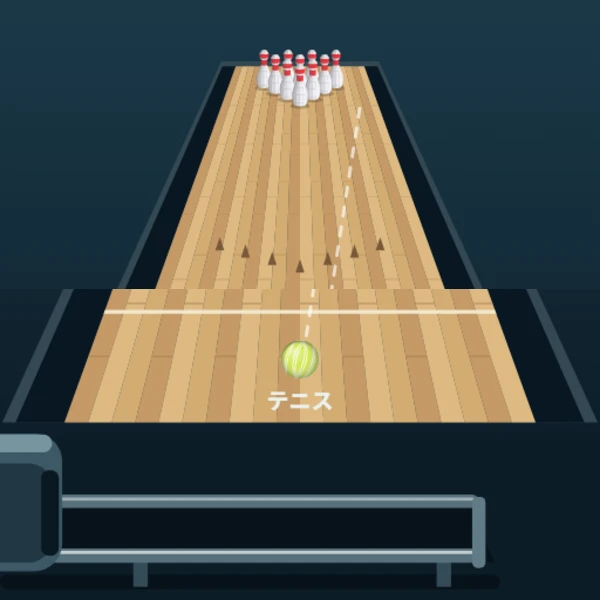
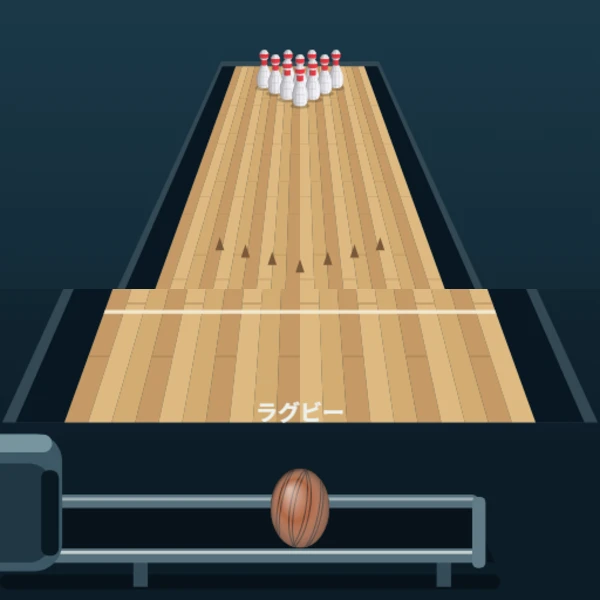
二回のドラッグで位置と角度を決めゲージ停止で投球する形に変更

diff --git a/games/_random-bowling/index.html b/games/_random-bowling/index.html
@@ -108,7 +108,7 @@
     {name:'スーパーボール', color:'#f079cf', r:.29, mass:2.3, speed:16, curve:0, hop:1.15, skin:9}
   ];
   var S = { PLAY:'play', RESULT:'result' };
-  var state, score, T, held, keyMode=false, phase, shot, pins, ball, kind, aim, manual, elapsed, history, scoreTime=0;
+  var state, score, T, held, keyMode=false, phase, shot, pins, ball, kind, aim, manual, elapsed, history, scoreTime=0, position=0, power=.5, dragX=0, dragY=0, dragAim=0, rollTime=5.2;
   function place() {}
   function clamp(v,a,b) { return Math.max(a,Math.min(b,v)); }
   function rack() {
@@ -118,14 +118,16 @@
   }
   function nextBall() {
     kind=kinds[Math.floor(Math.random()*kinds.length)];
-    phase='return'; aim=0; manual=false; elapsed=0; ball=null; rack();
+    phase='return'; position=0;power=.5;held=false;aim=0; manual=false; elapsed=0; ball=null; rack();
   }
   function newRound() {
     state=S.PLAY; scoreTime=0; score=0; T=0; held=false; shot=0; history=[]; nextBall();
   }
   function launch() {
-    if(state!==S.PLAY || phase!=='aim') return;
-    ball={x:0,z:.65,y:kind.r,vx:aim*kind.speed,vz:kind.speed,gutter:false,spin:0};
+    if(state!==S.PLAY || phase!=='power') return;
+    var speed=kind.speed*(.45+power*.95);
+    rollTime=Math.max(5.2,24/speed+1.3);
+    ball={x:position,z:.65,y:kind.r,vx:aim*speed,vz:speed,gutter:false,spin:0};
     phase='roll'; elapsed=0;
     tone(110,.16,.06,'sine',55);
   }
@@ -176,12 +178,12 @@
     scoreTime=Math.max(0,scoreTime-dt);
     if(state!==S.PLAY) return;
     elapsed+=dt;
-    if(phase==='return') {if(elapsed>=1.2) {phase='place';elapsed=0;}return;}
-    if(phase==='place') {if(elapsed>=.4) {phase='aim';elapsed=0;}return;}
-    if(phase==='aim') {if(!manual) aim=Math.sin(elapsed*.95)*.17;return;}
+    if(phase==='return') {if(elapsed>=1.2) {phase='receive';elapsed=0;}return;}
+    if(phase==='power') {power=1-Math.abs((elapsed%1.6)/.8-1);return;}
+    if(phase==='receive'||phase==='position'||phase==='angle') return;
     if(phase==='roll') {
       for(var i=0;i<4;i++) physics(dt/4);
-      if(elapsed>5.2) {history.push(pins.filter(function(p){return p.down;}).length);shot++;scoreTime=2;phase='settle';elapsed=0;}
+      if(elapsed>rollTime) {history.push(pins.filter(function(p){return p.down;}).length);shot++;scoreTime=2;phase='settle';elapsed=0;}
     } else if(elapsed>1) {if(shot===10) state=S.RESULT;else nextBall();}
   }
   function down(x,y) {
@@ -191,12 +193,33 @@
       if(hit==='share') doShare();else if(hit==='retry') newRound();
       return;
     }
-    if(phase!=='aim') return;
-    if(x!=null && y<80) return;
-    launch();
+    if(x==null) {
+      if(phase==='receive') phase='position';
+      else if(phase==='position') phase='angle';
+      else if(phase==='angle') {phase='power';elapsed=0;power=0;}
+      else if(phase==='power') launch();
+      return;
+    }
+    if(y<80) return;
+    if(phase==='power') {launch();return;}
+    if(phase==='receive') {
+      var r=clamp(kind.r*78,18,46),cy=H-47-r*(kind.skin===8?1.35:1);
+      if(Math.abs(x-270)>Math.max(36,r)||Math.abs(y-cy)>Math.max(36,r*1.35)) return;
+    } else if(phase!=='position'&&phase!=='angle') return;
+    held=true;dragX=x;dragY=y;dragAim=aim;
   }
-  function move(x,y) {}
-  function up() {held=false;}
+  function move(x,y) {
+    if(!held) return;
+    if(phase==='receive'&&Math.abs(x-dragX)+Math.abs(y-dragY)>5) phase='position';
+    if(phase==='position') position=clamp((x-270)*9.65/720,-2.1,2.1);
+    else if(phase==='angle') aim=clamp(dragAim+(x-dragX)/600,-.3,.3);
+  }
+  function up() {
+    if(!held) return;
+    held=false;
+    if(phase==='position') phase='angle';
+    else if(phase==='angle') {phase='power';elapsed=0;power=0;}
+  }
 
   function atCanvas(e) {
     var r = canvas.getBoundingClientRect();
@@ -224,7 +247,8 @@
     if (esc) { if (!e.repeat) newRound(); return; }
     if (left || right) {
       if (state !== S.PLAY) return;
-      if(phase==='aim') {manual=true;aim=clamp(aim+(left?-.012:.012),-.2,.2);}
+      if(phase==='position') position=clamp(position+(left?-.12:.12),-2.1,2.1);
+      else if(phase==='angle') aim=clamp(aim+(left?-.012:.012),-.3,.3);
       return;
     }
     if (e.repeat) return;                      /* 押しっぱなしで連発しない */
@@ -326,13 +350,19 @@
       ctx.save();ctx.translate(x,y+7);ctx.scale(1,.24);disk(0,0,r,'rgba(0,0,0,.4)');ctx.restore();
       ballDraw(x,fromY,r,kind,ease*335/r);
     }
-    if(phase==='place'||phase==='aim') {
-      var t=phase==='aim'?1:clamp(elapsed/.4,0,1),ease=t*t*(3-2*t),q=project(0,kind.r,.65);
-      ballDraw(270,fromY+(q.y-fromY)*ease,r+(q.k*kind.r-r)*ease,kind,0);
-      if(phase==='aim') {
-        ctx.fillStyle='#ecf2ee';ctx.font='600 20px sans-serif';ctx.textAlign='center';
-        ctx.fillText(kind.name,270,q.y+q.k*kind.r*(kind.skin===8?1.35:1)+27);
-      }
+    if(phase==='receive') {
+      ballDraw(270,fromY,r,kind,0);
+      ctx.fillStyle='#ecf2ee';ctx.font='600 20px sans-serif';ctx.textAlign='center';ctx.fillText(kind.name,270,y-100);
+    }
+    if(phase==='position'||phase==='angle'||phase==='power') {
+      var q=project(position,kind.r,.65);
+      ballDraw(q.x,q.y,q.k*kind.r,kind,0);
+    }
+    if(phase==='power') {
+      var gx=162,gy=H-139,gw=216;
+      ctx.fillStyle='#263e49';roundRect(gx,gy,gw,18,9);ctx.fill();
+      ctx.fillStyle='#efcc79';roundRect(gx,gy,Math.max(9,gw*power),18,9);ctx.fill();
+      ctx.fillStyle='#ffffff';ctx.fillRect(gx+gw*power-2,gy-5,4,28);
     }
     rail(y+22,'#56707c',13);rail(y+19,'#c2ced0',3);
     /* 左端の覆いで球を隠し、画面の外から現れるようにする。 */
@@ -357,13 +387,13 @@
       var a=project(i*.55,0,6.5+Math.abs(i)*.32);
       poly([{x:a.x,y:a.y-7},{x:a.x-4,y:a.y+5},{x:a.x+4,y:a.y+5}],'#785839');
     }
-    if(phase==='aim'&&state===S.PLAY) {
+    if((phase==='angle'||phase==='power')&&state===S.PLAY) {
       ctx.beginPath();
-      for(var z=1;z<=18;z+=.4) {var p=project(aim*(z-.65),.025,z);if(z===1)ctx.moveTo(p.x,p.y);else ctx.lineTo(p.x,p.y);}
+      for(var z=1;z<=18;z+=.4) {var p=project(position+aim*(z-.65),.025,z);if(z===1)ctx.moveTo(p.x,p.y);else ctx.lineTo(p.x,p.y);}
       ctx.setLineDash([8,10]);ctx.strokeStyle='rgba(255,255,255,.65)';ctx.lineWidth=3;ctx.stroke();ctx.setLineDash([]);
     }
     var objects=pins.map(function(p){return {z:p.z,p:p};});
-    if(ball&&phase!=='place'&&ball.z<26) objects.push({z:ball.z,b:ball});
+    if(ball&&ball.z<26) objects.push({z:ball.z,b:ball});
     objects.sort(function(a,b){return b.z-a.z;}).forEach(function(o){
       if(o.p) {var q=project(o.p.x,0,o.p.z);ctx.save();ctx.translate(q.x,q.y);ctx.scale(1,.3);disk(0,0,q.k*.34,'rgba(0,0,0,.2)');ctx.restore();pinDraw(o.p);}
       else {var b=o.b,q=project(b.x,b.y,b.z),sh=project(b.x,0,b.z);ctx.save();ctx.translate(sh.x,sh.y);ctx.scale(1,.3);disk(0,0,sh.k*kind.r,'rgba(0,0,0,.27)');ctx.restore();ballDraw(q.x,q.y,q.k*kind.r,kind,b.spin);}
@@ -430,7 +460,7 @@
      テスト（games/_tools）から中を見るためのもの。読むのと進めるだけ。
      消さなくてよい。遊びを飛ばせるものは足さないこと。 */
   window.__probe = {
-    now: function () { return { state:state,score:score,scoreTime:scoreTime,W:W,H:H,phase:phase,shot:shot,aim:aim,kind:kind.name,history:history.slice(),ball:ball?Object.assign({},ball):null,pins:pins.map(function(p){return {x:p.x,z:p.z,down:p.down};}),kinds:kinds.map(function(k){return Object.assign({},k);}) }; },
+    now: function () { return { state:state,score:score,scoreTime:scoreTime,W:W,H:H,phase:phase,position:position,power:power,shot:shot,aim:aim,kind:kind.name,history:history.slice(),ball:ball?Object.assign({},ball):null,pins:pins.map(function(p){return {x:p.x,z:p.z,down:p.down};}),kinds:kinds.map(function(k){return Object.assign({},k);}) }; },
     step: function (n) { for (var i = 0; i < (n || 1); i++) { update(1 / 60); draw(); } },
     reset: function () { newRound(); }
   };
@@ -441,9 +471,9 @@
     sound: function () { audioOn(); return AC; },
     run: async function (r) {
       for(var i=0;i<10;i++) {
-        if(!await r.until(function(){return phase==='aim';},3)) throw Error('球が出てこない');
-        await r.wait(350);r.key();
-        if(!await r.until(function(){return phase==='aim'||state===S.RESULT;},9)) throw Error('投球が終わらない');
+        if(!await r.until(function(){return phase==='receive';},3)) throw Error('球が出てこない');
+        r.key();r.key();r.key();await r.wait(650);r.key();
+        if(!await r.until(function(){return phase==='receive'||state===S.RESULT;},9)) throw Error('投球が終わらない');
       }
       await r.wait(1500);
     }

diff --git a/games/_tools/tests/random-bowling.js b/games/_tools/tests/random-bowling.js
@@ -1,34 +1,31 @@
-/* 一球の搬送、投球待ち、10種類の物理と10投の完走を確認する。 */
+/* 位置・角度の二回のドラッグとパワー決定、各球の投球を確認する。 */
 var assert=require('assert'),load=require('../harness');
-var g=load('games/_random-bowling/index.html',{inject:
- 'window.__dbg={set:function(k,a){kind=kinds[k];aim=a;manual=true;},tick:function(n){for(var i=0;i<n;i++)update(1/60);}};'});
+var g=load('games/_random-bowling/index.html',{inject:'window.__dbg={set:function(k,a){kind=kinds[k];aim=a;},tick:function(n){for(var i=0;i<n;i++)update(1/60);}};'});
 function now(){return g.probe.now();}
-function ready(){for(var i=0;i<200&&now().phase!=='aim';i++)g.dbg.tick(1);assert.equal(now().phase,'aim');}
-assert.equal(now().scoreTime,0);
+function until(phase){for(var i=0;i<1100&&now().phase!==phase;i++)g.dbg.tick(1);assert.equal(now().phase,phase);}
+function ready(){until('receive');}
+function keys(){g.press(' ');g.press(' ');g.press(' ');assert.equal(now().phase,'power');}
 assert.equal(now().phase,'return');g.press(' ');assert.equal(now().ball,null);
-g.dbg.tick(73);assert.equal(now().phase,'place');g.press(' ');assert.equal(now().ball,null);
-ready();g.dbg.tick(120);assert.equal(now().phase,'aim');assert.equal(now().shot,0);
-for(var k=0;k<10;k++) {
+ready();g.dbg.tick(120);assert.equal(now().phase,'receive','自動で投球位置へ移動しない');
+var k=now().kinds.find(function(k){return k.name===now().kind;}),r=Math.max(18,Math.min(46,k.r*78)),cy=g.H-47-r*(k.skin===8?1.35:1);
+g.tap(270,cy);assert.equal(now().phase,'receive','タップだけでは位置を確定しない');
+g.down(270,cy);g.moveTo(345,g.H-210);assert.equal(now().phase,'position');g.up();assert.equal(now().phase,'angle');assert(now().position>0.9);
+var pos=now().position;g.down(345,g.H-210);g.moveTo(300,g.H-260);g.up();assert.equal(now().phase,'power');assert(now().aim<0);assert.equal(now().position,pos);
+g.dbg.tick(24);assert(now().power>.4&&now().power<.6);g.tap(270,g.H-160);assert.equal(now().phase,'roll');assert.equal(now().ball.x,pos);
+var speed=now().ball.vz;g.tap(270,g.H-160);assert.equal(now().ball.vz,speed,'連打しても投げ直さない');
+for(var n=0;n<10;n++) {
  for(var a of [0,.2]) {
-  g.esc();ready();g.dbg.set(k,a);g.press(' ');assert.equal(now().phase,'roll');
-  g.dbg.tick(320);assert.equal(now().history.length,1);
-  assert(a===0?now().score>0:now().score===0);
-  assert(now().scoreTime>1.8,'結果更新時にヘッダーを表示');
-  g.dbg.tick(125);assert.equal(now().scoreTime,0,'二秒後に隠れる');
+  g.esc();ready();keys();g.dbg.set(n,a);g.dbg.tick(47);g.press(' ');
+  until('settle');assert(a===0?now().score>0:now().score===0);assert(now().scoreTime>1.9);
+  g.dbg.tick(125);assert.equal(now().scoreTime,0);
  }
 }
-g.esc();
-for(var i=0;i<10;i++) {
- ready();g.dbg.set(i,0);
- if(i%2)g.tap(270,g.H-200);else g.press(' ');
- g.press(' ');g.dbg.tick(380);assert.equal(now().shot,i+1);
-}
-assert.equal(now().state,'result');
-assert.equal(now().score,now().history.reduce(function(a,b){return a+b;},0));
-g.tap(380,g.H*.62+34);assert.equal(g.shared.length,1);
-g.tap(160,g.H*.62+34);assert.equal(now().score,0);assert.equal(now().phase,'return');
-ready();g.pad({dx:1});g.step(1);g.pad({});g.step(1);assert(now().aim>0);
-g.pad({press:true});g.step(1);g.pad({});g.step(1);assert.equal(now().phase,'roll');
+// 最弱でも全種類が最後まで到達する。
+for(var n=0;n<10;n++){g.esc();ready();keys();g.dbg.set(n,0);g.press(' ');until('settle');assert.equal(now().shot,1);}
+g.esc();for(var i=0;i<10;i++){ready();keys();g.dbg.tick(40);g.press(' ');until('settle');g.dbg.tick(62);assert.equal(now().shot,i+1);}
+assert.equal(now().state,'result');assert.equal(now().score,now().history.reduce(function(a,b){return a+b;},0));
+g.tap(380,g.H*.62+34);assert.equal(g.shared.length,1);g.tap(160,g.H*.62+34);assert.equal(now().score,0);
+ready();g.pad({press:true});g.step(1);g.pad({});g.step(1);assert.equal(now().phase,'position');g.pad({dx:1});g.step(1);g.pad({});g.step(1);assert(now().position>0);
 g.esc();assert.equal(now().ball,null);assert.equal(now().phase,'return');
 load.SHAPES.forEach(function(v){g.view(v[0],v[1]);g.step(1);g.drawn.length=0;assert(now().H>=780&&now().H<=1700);});
-console.log('一球の搬送・自動移動・移動中の誤投防止・10種類・溝・10投完走・共有・やり直し・ジョイパッド・画面6通り：問題なし');
+console.log('二回のドラッグ・位置保持・ゲージ停止・連打防止・10種類の強弱・10投完走・共有・やり直し・ジョイパッド・画面6通り：問題なし');
